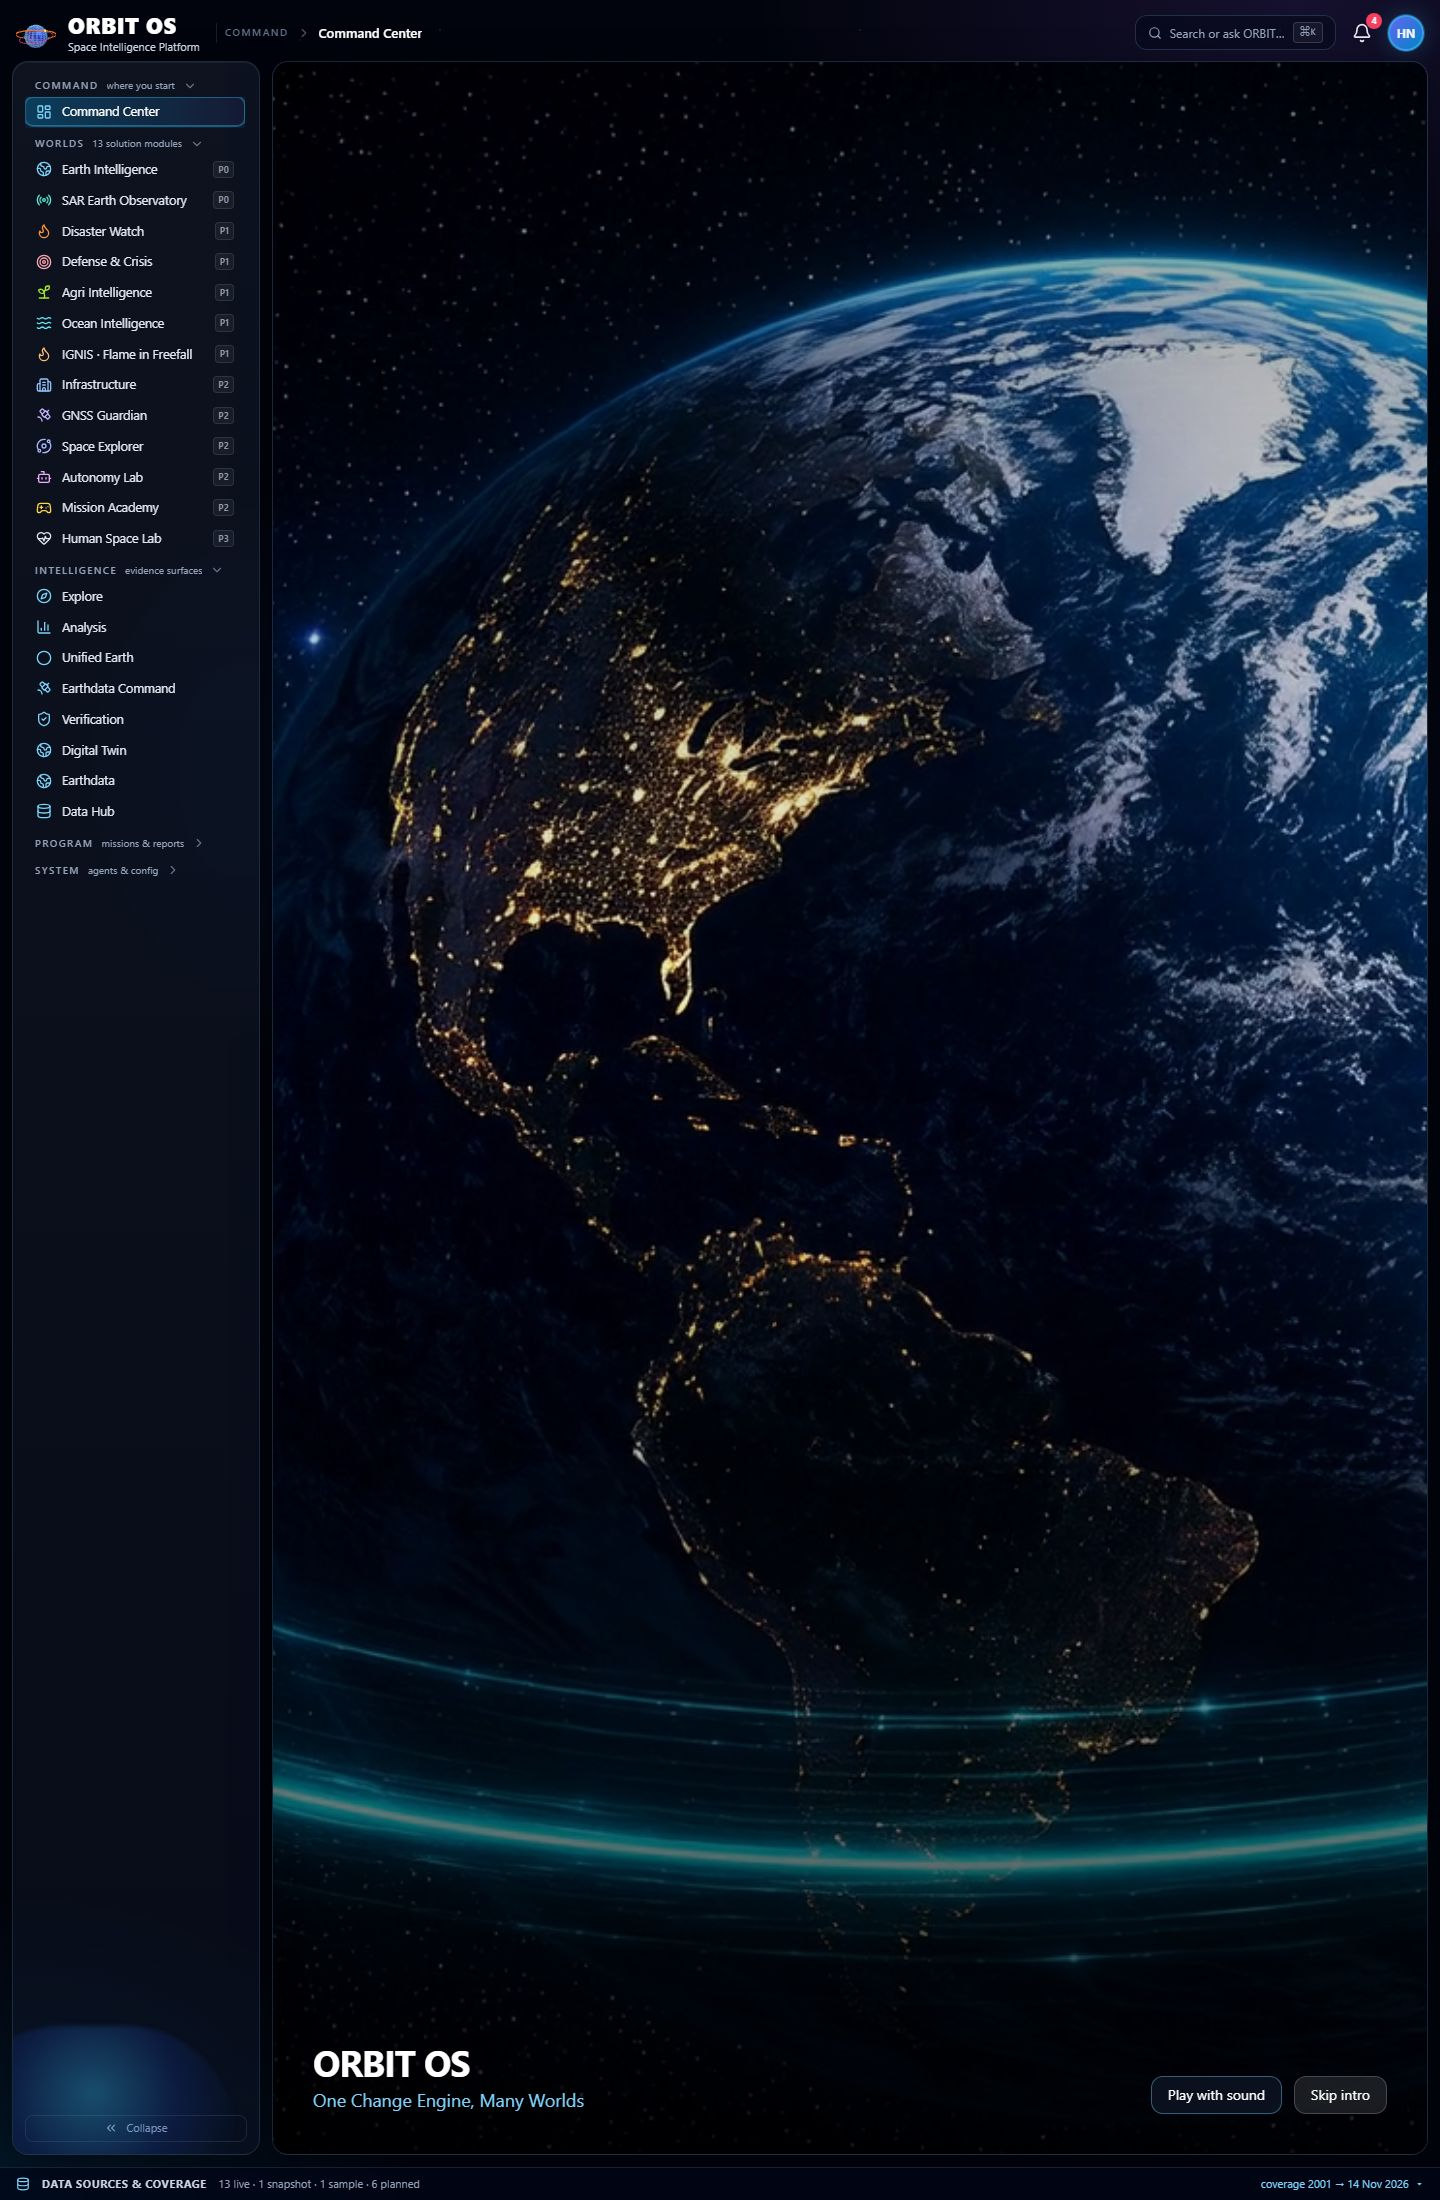
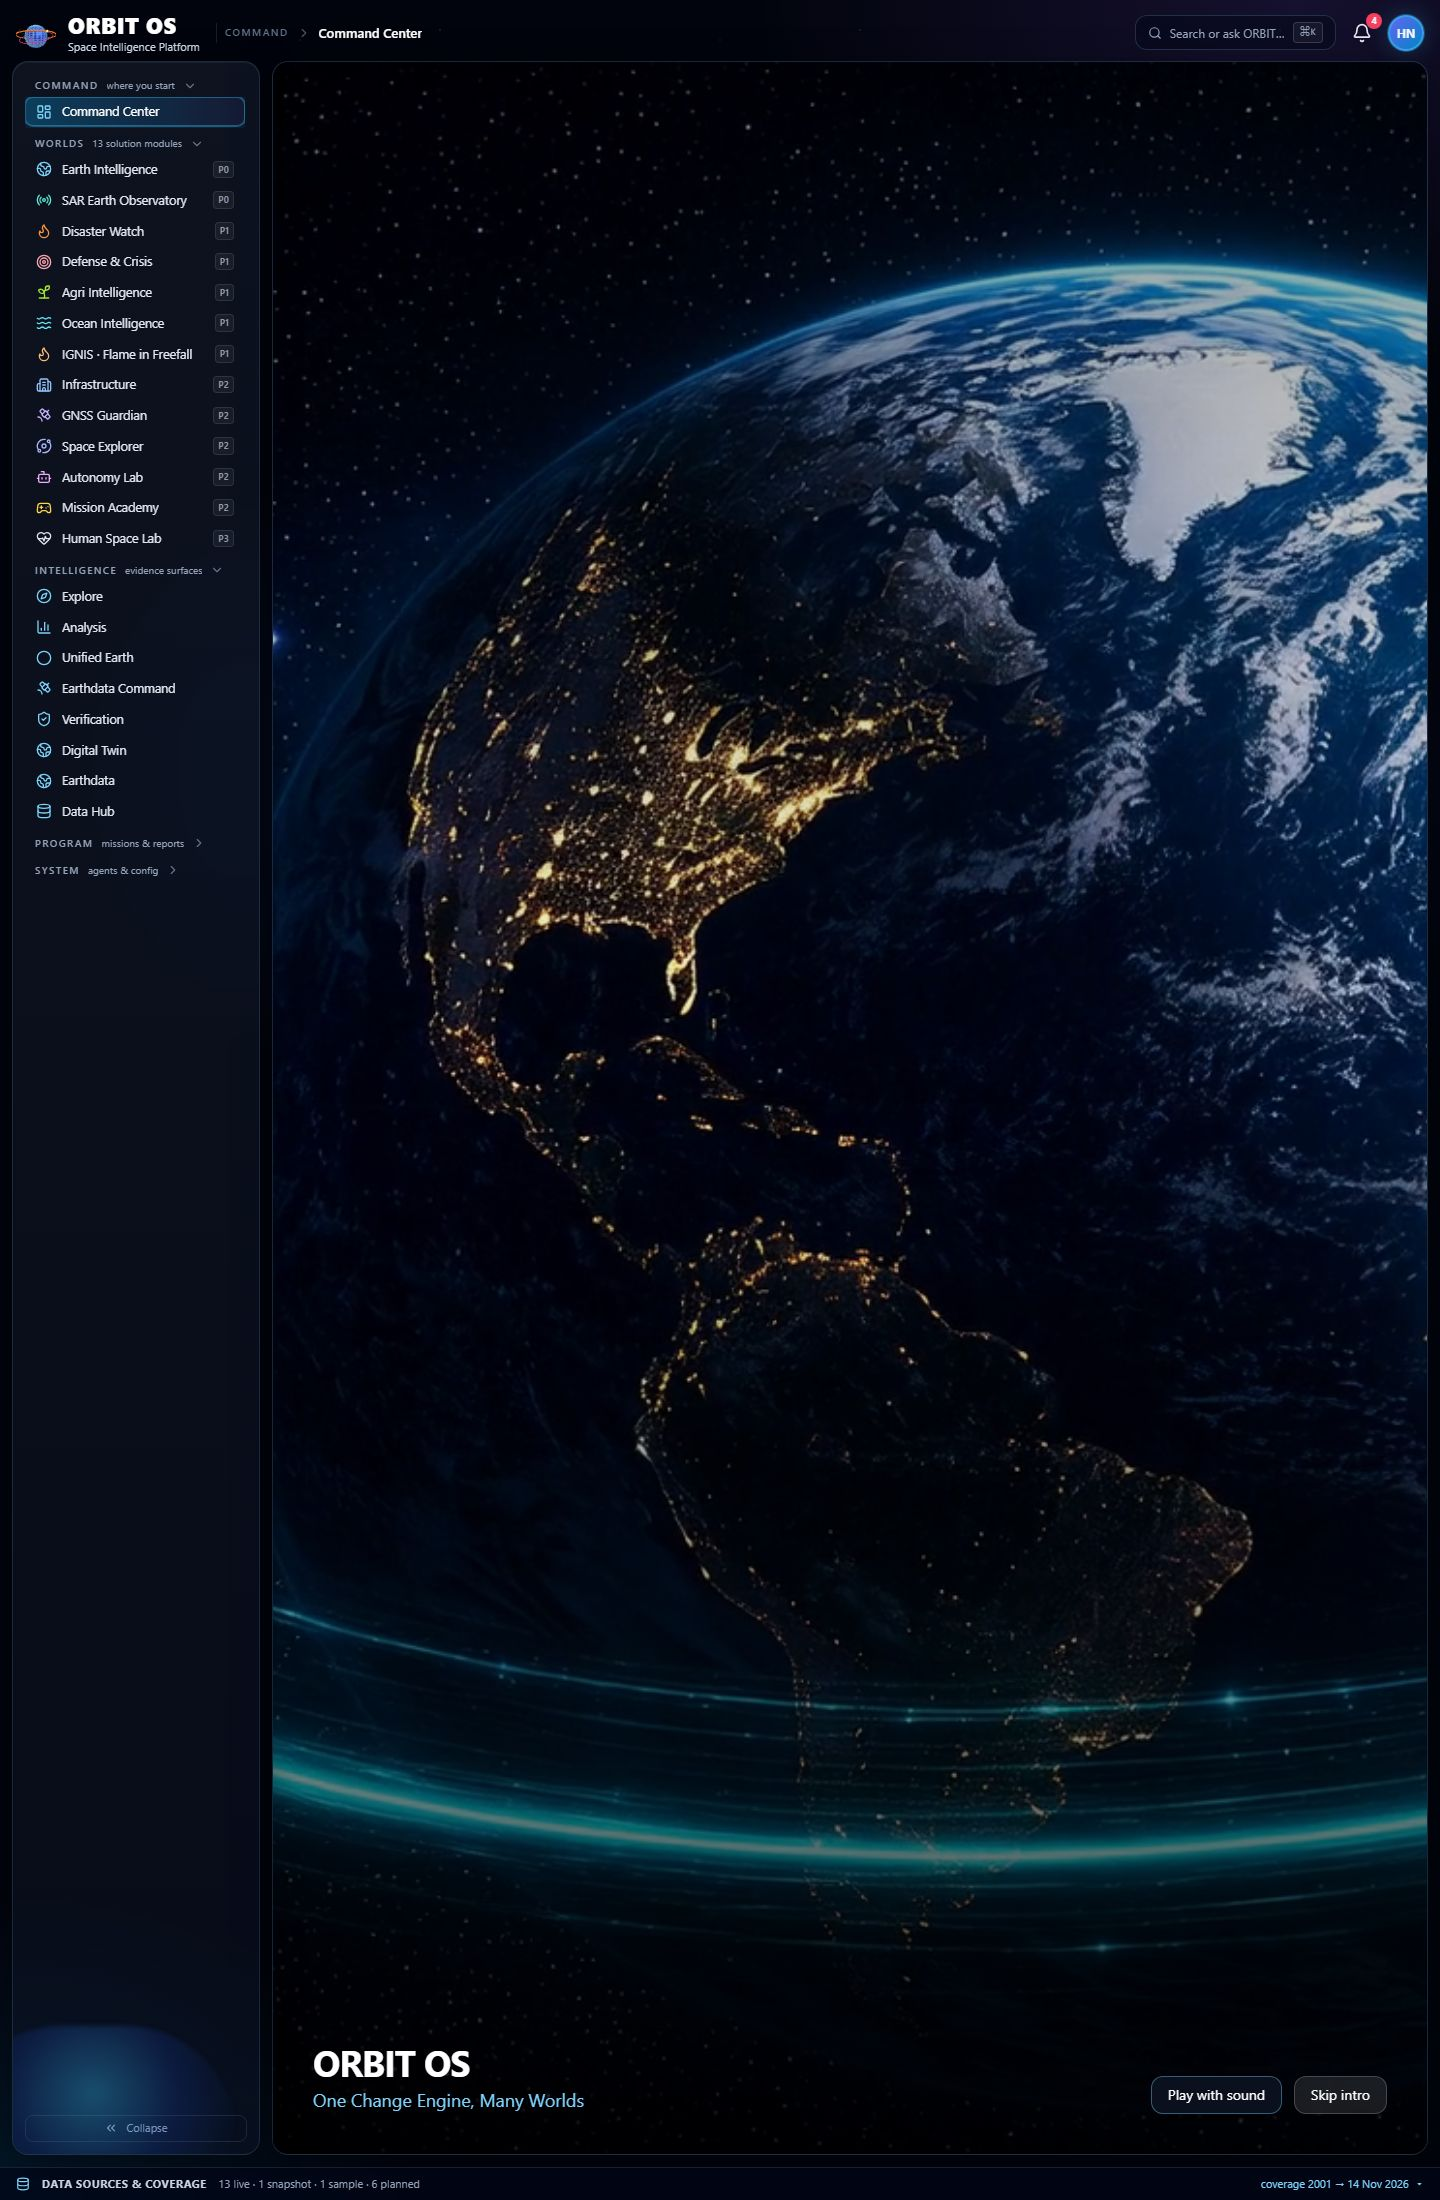
screens: refresh index and harden capture teardown
A run that had already written all 43 screenshots still exited 1 because
chrome.kill() throws once the child has gone. Kill is now wrapped and the exit
code is derived from the captured count, so a teardown error can no longer be
mistaken for a failed capture.

diff --git a/screens/index.html b/screens/index.html
@@ -29,7 +29,7 @@
 </style></head>
 <body><div class="wrap">
   <h1>ORBIT OS — screen map</h1>
-  <p class="sub">43 screens captured from the running app · 15/11/2026, 09:57:30 · 1440 px · organised by problem use case</p>
+  <p class="sub">43 screens captured from the running app · 15/11/2026, 10:07:48 · 1440 px · organised by problem use case</p>
   <nav><a href="#platform-start">Start here · Command Center</a><a href="#platform-unified">One Earth · Unified Geospatial</a><a href="#platform-evidence">Earthdata → Evidence · access and verification</a><a href="#platform-data">Data layer · hub, agents, exports</a><a href="#platform-program">Program · missions, solutions, SDGs, reports</a><a href="#platform-beyond">Beyond the 14 · GNSS integrity &amp; situation room</a><a href="#platform-twin">Digital twin · Arctic Watch</a><a href="#challenge-01">C1 · Retired Hardware Story</a><a href="#challenge-02">C2 · Earth System Trend Detective</a><a href="#challenge-03">C3 · Mars Outpost Trainer</a><a href="#challenge-04">C4 · Astronaut Health Monitor</a><a href="#challenge-05">C5 · Radar Surface Change</a><a href="#challenge-06">C6 · Field Shift Rotation Planner</a><a href="#challenge-07">C7 · Microgravity Fire Dashboard (ISS)</a><a href="#challenge-08">C8 · Fire Calendar Harmonizer</a><a href="#challenge-09">C9 · Earth Analog Ranker</a><a href="#challenge-10">C10 · Martian Route Map</a><a href="#challenge-11">C11 · Lunar Site Navigator</a><a href="#challenge-12">C12 · Sky Change Viewer</a><a href="#challenge-13">C13 · Mission Design Game</a><a href="#challenge-14">C14 · Earth Sound Jukebox</a></nav>
   
     <section id="platform-start">

diff --git a/screens/README.md b/screens/README.md
@@ -1,6 +1,6 @@
 # ORBIT OS — screen map
 
-43 screens captured on 15/11/2026, 09:57:30 from `http://localhost:5173/` at 1440 px, JPEG q80.
+43 screens captured on 15/11/2026, 10:07:48 from `http://localhost:5173/` at 1440 px, JPEG q80.
 
 Screens live once in `pages/`; each use case below links to the ones that prove it.
 
